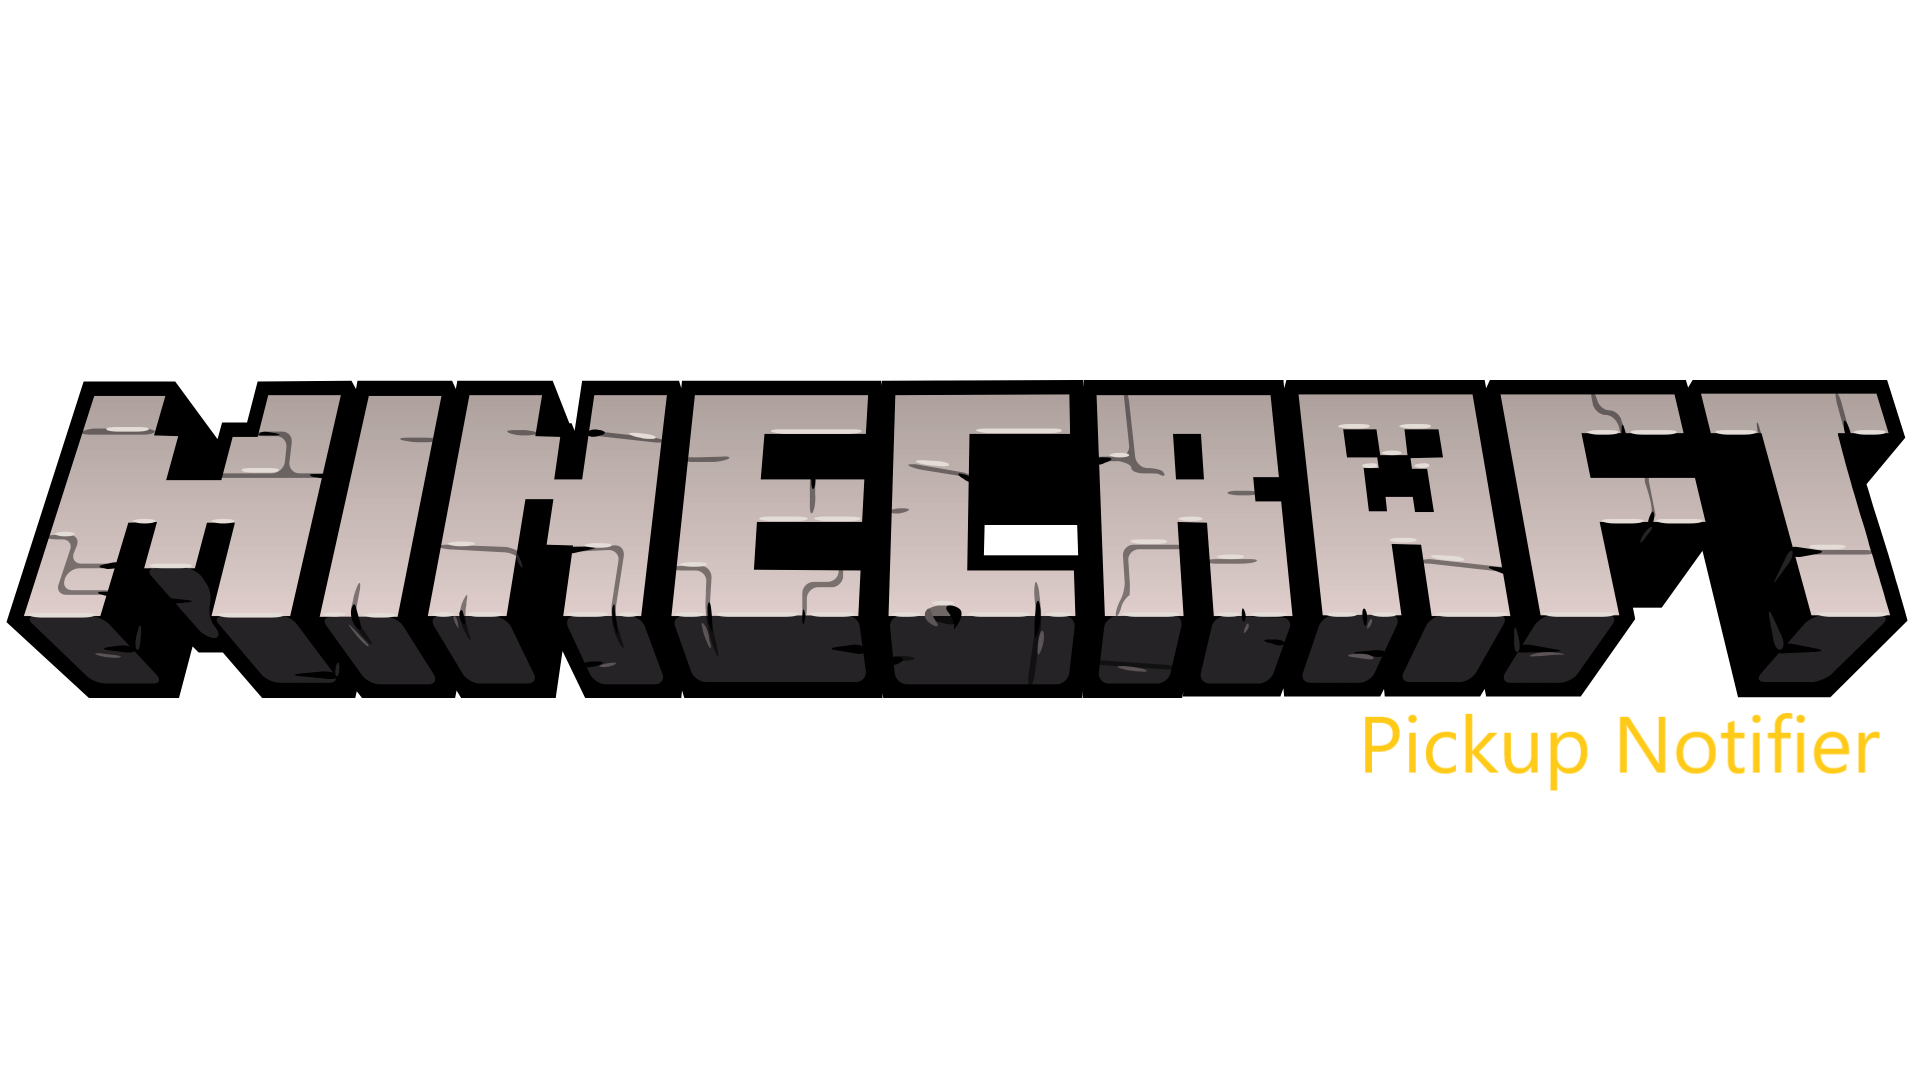
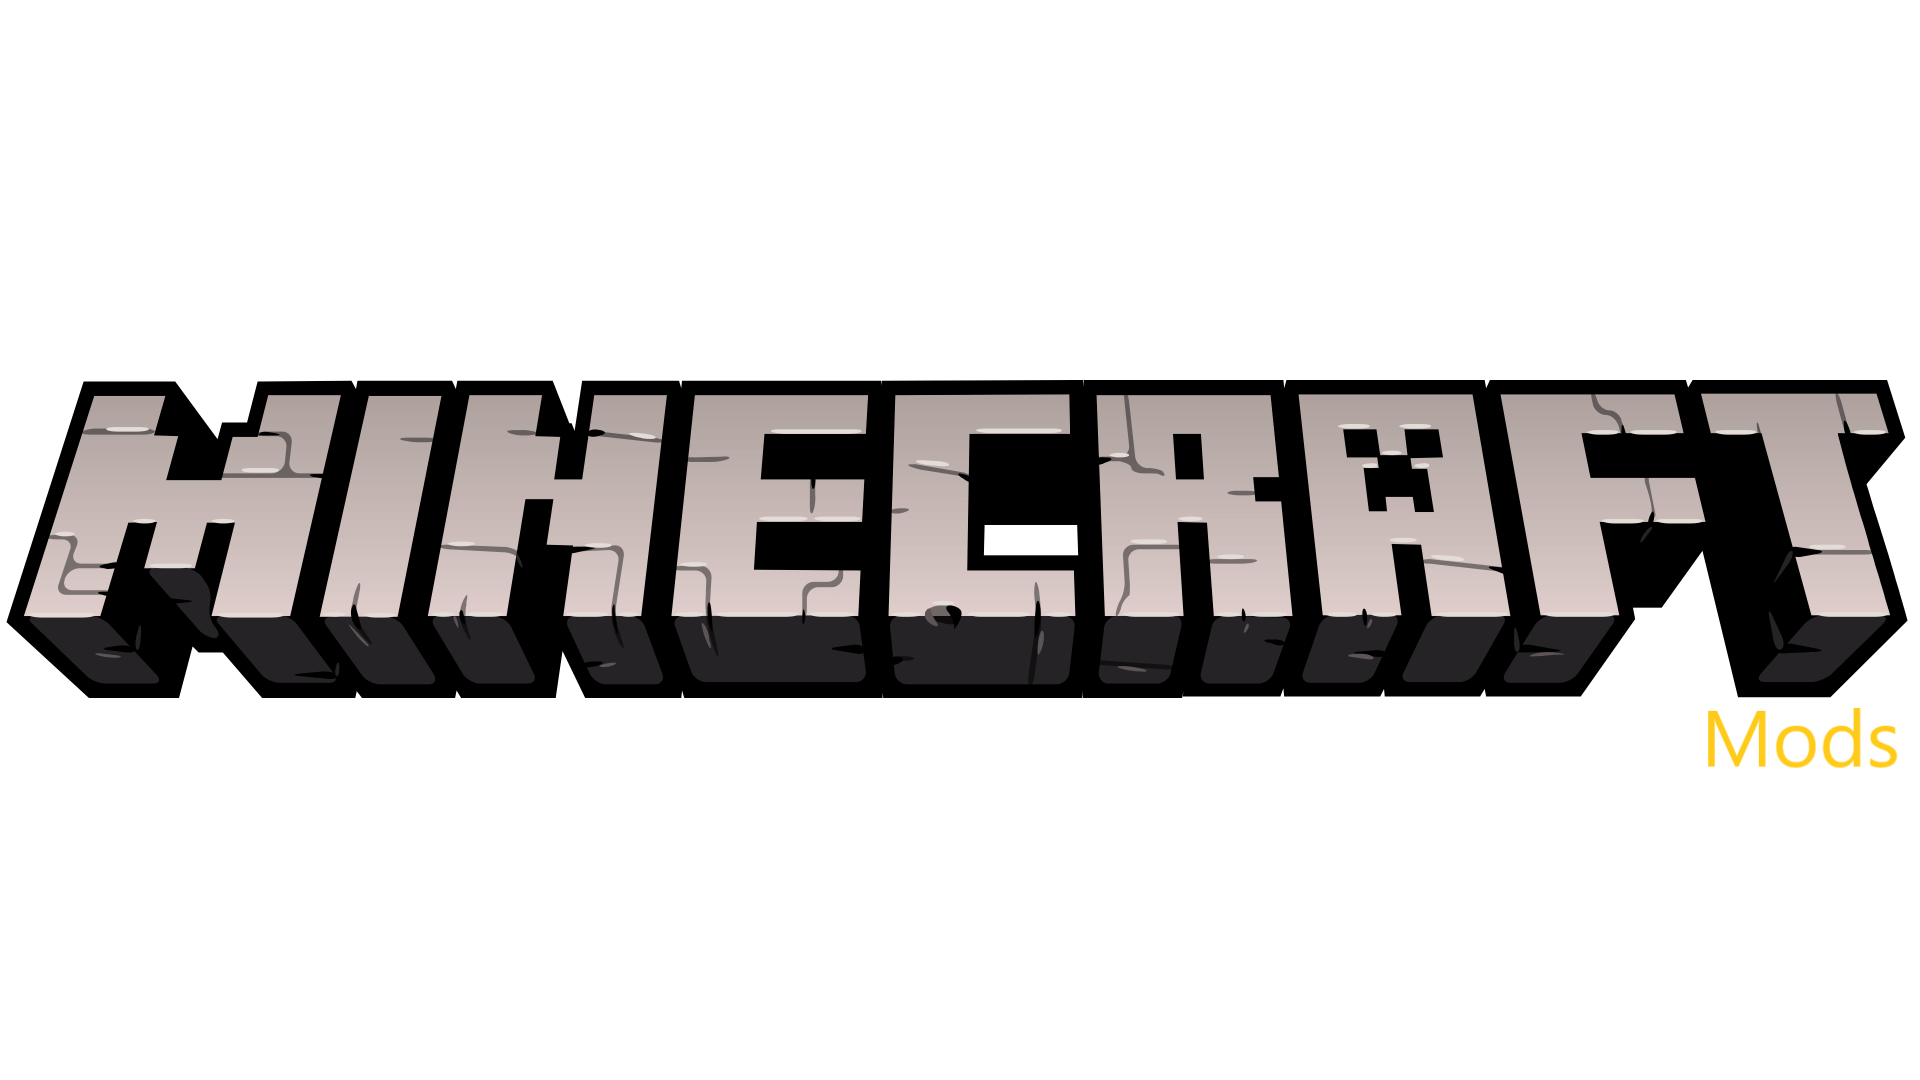
update

Changed region(s): [[0.6875, 0.6417, 1.0, 0.7333]]

diff --git a/projects/minecraft/index.html b/projects/minecraft/index.html
@@ -1,7 +1,7 @@
 <!DOCTYPE html>
 <html lang="en">
   <head>
-    <title>Rando</title>
+    <title>Minecraft mods</title>
     <link rel="shortcut icon" href="../../Resources/Pictures/favicon.ico">
     <meta charset="utf-8">
     <meta name="theme-color" content="#343a40"/>
@@ -34,7 +34,13 @@
       <a class="nav-link" href="../">Projects</a>
     </li>  
     <li class="nav-item active">
-      <a class="nav-link back-to-top-2" role="button">Rando<span class="sr-only">(current)</span></a>
+      <a class="nav-link back-to-top-2" role="button">Minecraft Mods<span class="sr-only">(current)</span></a>
+    </li>
+    <li class="nav-item dropdown d-none">
+      <a class="nav-link dropdown-toggle" id="navbar-dropdown" role="button" data-toggle="dropdown" aria-haspopup="true" aria-expanded="false">commands</a>
+      <div class="dropdown-menu fade-down" aria-labelledby="navbar-dropdown">
+        <a class="dropdown-item general-btn" role="button">Pickup notifier</a>
+      </div>
     </li>
   </ul>
 </div>
@@ -43,18 +49,27 @@
 <main role="main">
 <div class="jumbotron jumbotron-fluid">
   <div class="container">
-    <h1 class="display-3">Rando</h1>
-    <p>A minecraft randomization drop mod</p>
+    <h1 class="display-3">Minecraft mods</h1>
+    <p>A collection of minecraft mods</p>
   </div>
 </div>
 
 <div class="container">
   <div class="row justify-content-center">
     <div class="text-box">
-      <p>Ever wanted a mod that just randomizes the drops in minecraft no? well now you have one and its called Rando i am hoping to make it support as many other mods as possible so it can make your minecraft experience either painful or enjoyable.</p>  
+      <h2 class="text-center" id="pickupnoti">Pickup notifier</h2>
+      <p>This mod notifies you every time you pick up an item. This mod is a working progress meaning changes and support for more minecraft versions is being worked on so please bare with me.</p>
     </div>
   </div>
   <br>
+
+  <h2 class="text-center">To do</h2>
+  <ul>
+    <li>Add support for more minecraft versions</li>
+    <li>Make the item name be displayed instead of string</li>
+    <li>Add block amount</li>
+    <li>Add item blacklist</li>
+  </ul><br>
 
   <table class="table table-sm">
     <thead class="table-head">
@@ -67,14 +82,13 @@
     <tbody class="table-body">
       <tr>
         <td>1.12.2</td>
-        <td>1.0.0</td>
-        <td><a class="btn btn-primary fa fa-file-download btn-dark text-center" role="button" href="jar files/rando-1.12.2-1.0.0.jar" download></a></td>
+        <td>1.0.2</td>
+        <td><a class="btn btn-primary fa fa-file-download btn-dark text-center" role="button" href="jar files/1.12.2/pickupnoti-1.12.2-1.0.2.jar" download></a></td>
       </tr>
     </tbody>
   </table>
 
-  <br><hr>
-
+  <hr>
 </div>
 
 </main>

diff --git a/projects/index.html b/projects/index.html
@@ -68,11 +68,11 @@
               <div class="card mb-4 shadow-sm banner-size">
                <img src="../Resources/Pictures/PickupNotifierBanner.png" alt="Pickup Notifier" width="100%" class="rounded-top border-top border-left border-right text-center coming-soon-center card-img-background">
                 <div class="card-body rounded-bottom border-bottom border-left border-right">
-                  <p class="card-title font-weight-bold">Pickup Notifier</p>
-                  <p class="card-text">A item notification mod for minecraft</p>
+                  <p class="card-title font-weight-bold">Minecraft mods</p>
+                  <p class="card-text">A collection of minecraft mods</p>
                   <div class="d-flex justify-content-between align-items-center">
                     <div class="btn-group">
-                      <a href="./pickupnoti/" role="button" class="btn btn-sm btn-outline-secondary">More Info</a>
+                      <a href="./minecraft/" role="button" class="btn btn-sm btn-outline-secondary">More Info</a>
                     </div>
                   </div>
                 </div>

diff --git a/Resources/JS/bundles/elevator-bundle.js b/Resources/JS/bundles/elevator-bundle.js
@@ -1,4 +1,6 @@
 window.onload = function() {
+
+    //to top settings
     var elevator = new Elevator({
       element: document.querySelector('.back-to-top'),
       duration: 1000, // milliseconds
@@ -7,6 +9,8 @@ window.onload = function() {
       element: document.querySelector('.back-to-top-2'),
       duration: 1000, // milliseconds
     });
+
+    //go to settings
     var elevator = new Elevator({
       element: document.querySelector('.admin-btn'),
       targetElement: document.querySelector('#admin'),
@@ -16,7 +20,12 @@ window.onload = function() {
       element: document.querySelector('.general-btn'),
       targetElement: document.querySelector('#general'),
       verticalPadding: 100  // in pixels
-    }); 
+    });
+    var elevator = new Elevator({
+      element: document.querySelector('.pickupnoti'),
+      targetElement: document.querySelector('#pickupnoti'),
+      verticalPadding: 100  // in pixels
+    });    
   };
 
 var Elevator = function(options) {

diff --git a/Resources/JS/originals/elevator-settings.js b/Resources/JS/originals/elevator-settings.js
@@ -1,4 +1,6 @@
 window.onload = function() {
+
+    //to top settings
     var elevator = new Elevator({
       element: document.querySelector('.back-to-top'),
       duration: 1000, // milliseconds
@@ -7,6 +9,8 @@ window.onload = function() {
       element: document.querySelector('.back-to-top-2'),
       duration: 1000, // milliseconds
     });
+
+    //go to settings
     var elevator = new Elevator({
       element: document.querySelector('.admin-btn'),
       targetElement: document.querySelector('#admin'),
@@ -16,6 +20,11 @@ window.onload = function() {
       element: document.querySelector('.general-btn'),
       targetElement: document.querySelector('#general'),
       verticalPadding: 100  // in pixels
-    }); 
+    });
+    var elevator = new Elevator({
+      element: document.querySelector('.pickupnoti'),
+      targetElement: document.querySelector('#pickupnoti'),
+      verticalPadding: 100  // in pixels
+    });    
   };
 
